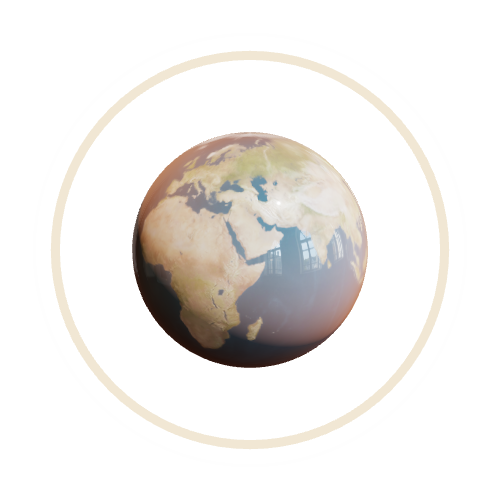
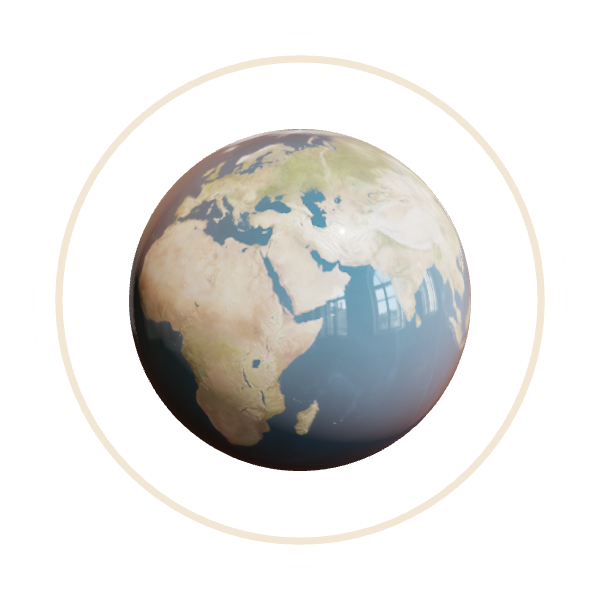
timeout based preloader and add fallback globe image

Changed region(s): [[0.21, 0.21, 0.81, 0.81], [0.09, 0.09, 0.93, 0.93]]

diff --git a/src/routes/index.svelte b/src/routes/index.svelte
@@ -1,31 +1,21 @@
 <script lang="ts">
 	import { onMount } from 'svelte';
 	import { loadStarsPreset } from 'tsparticles-preset-stars';
-	// import type { ParticlesProps } from 'svelte-particles';
 	import type { Engine } from 'tsparticles-engine';
 	import type { SvelteComponent } from 'svelte/internal';
 
 	import Globe from '$lib/components/Globe.svelte';
 	import Stat from '$lib/components/Stat.svelte';
-	import { waitFor } from '$lib/stores/preloader';
 
 	let ParticlesComponent: SvelteComponent;
 
 	onMount(async () => {
-		const module = await waitFor(import('svelte-particles'));
+		const module = await import('svelte-particles');
 		ParticlesComponent = module.default as any;
 	});
 
-	// const particlesConfig: ParticlesProps['options'] = {
-	// 	preset: 'stars',
-	// 	background: { color: 'transparent' },
-	// 	style: {
-	// 		position: 'static',
-	// 	},
-	// };
-
 	const particlesInit = async (main: Engine) => {
-		await waitFor(loadStarsPreset(main));
+		await loadStarsPreset(main);
 	};
 
 	const particlesOptions = {
@@ -119,12 +109,12 @@
 
 <!-- TODO: Tailwind needs rework -->
 <section class="bg-white flex flex-wrap justify-center" style="height: 500px">
-		<div class='max-w-6xl flex flex-wrap justify-between'>
-			<img class='h-20' src='assets/partners/wondry.png' alt='wondry'/>
-			<img class='h-20' src='assets/partners/c4e.jpg' alt='c4e'/>
-			<img class='h-20' src='assets/partners/sasb.png' alt='sasb'/>
-			<img class='h-20' src='assets/partners/unpri.png' alt='unpri'/>
-		</div>
+	<div class="max-w-6xl flex flex-wrap justify-between">
+		<img class="h-20" src="assets/partners/wondry.png" alt="wondry" />
+		<img class="h-20" src="assets/partners/c4e.jpg" alt="c4e" />
+		<img class="h-20" src="assets/partners/sasb.png" alt="sasb" />
+		<img class="h-20" src="assets/partners/unpri.png" alt="unpri" />
+	</div>
 </section>
 
 <section class="text-black" style="height: 500px; background-color: salmon">

diff --git a/src/lib/components/Globe.svelte b/src/lib/components/Globe.svelte
@@ -30,7 +30,6 @@
 	import { RGBELoader, OrbitControls, GLTFLoader } from 'three-stdlib';
 	import anime from 'animejs';
 
-	import { waitFor } from '$lib/stores/preloader';
 	import { onClickOnly } from '$lib/actions/onClickOnly';
 
 	const planeSize = 0.002;
@@ -41,6 +40,7 @@
 
 	let mousePos = new Vector2(0, 0);
 	let canvas: HTMLCanvasElement;
+	let globeReady = false;
 
 	let toggleDayTime = (e: MouseEvent) => {};
 
@@ -297,10 +297,22 @@
 				renderer.autoClear = false;
 				renderer.render(ringsScene, ringsCamera);
 				renderer.autoClear = true;
+
+				// Note: This snippet is used to generate the fallback image. Uncomment to use.
+
+				// if (typeof window !== 'undefined' && !window.ssCaptured) {
+				// 	let a = document.createElement('a');
+				// 	a.href = renderer.domElement.toDataURL('image/png');
+				// 	a.download = 'globe.png';
+				// 	a.click();
+				// 	window.ssCaptured = true;
+				// }
 			});
 		}
 
-		waitFor(init());
+		init().then(() => {
+			globeReady = true;
+		});
 	});
 
 	function nr() {
@@ -380,5 +392,13 @@
 	style="width: {width}px; height: {height}px;"
 	class="overflow-hidden max-w-full flex items-center justify-center"
 >
-	<canvas bind:this={canvas} class="max-w-full z-10" use:onClickOnly={toggleDayTime} />
+	{#if !globeReady}
+		<img src="/assets/globe.png" alt="Globe" />
+	{/if}
+	<canvas
+		bind:this={canvas}
+		class:hidden={!globeReady}
+		class="max-w-full"
+		use:onClickOnly={toggleDayTime}
+	/>
 </div>

diff --git a/src/lib/components/Preloader.svelte b/src/lib/components/Preloader.svelte
@@ -1,9 +1,18 @@
 <script>
+	import { onMount } from 'svelte';
 	import { fade } from 'svelte/transition';
-	import { loading } from '$lib/stores/preloader';
+
+	const TIMEOUT_MS = 2000;
+	let loading = true;
+
+	onMount(() => {
+		setTimeout(() => {
+			loading = false;
+		}, TIMEOUT_MS);
+	});
 </script>
 
-{#if $loading}
+{#if loading}
 	<div
 		class="grid place-items-center fixed w-screen h-screen bg-base-100 z-50"
 		out:fade={{ duration: 1000 }}

diff --git a/README.md b/README.md
@@ -1,10 +1,10 @@
 Site looks FANTASTIC so far. Really love this.
 
-## 1.
+## 1. ✅
 
 Remove the right click drag on the globe.
 
-## 2.
+## 2. ✅
 
 I apologize for not being clear before. Let's keep the fallback image for the globe & have the preloader. The preloader will be a set # of seconds rather than an await function. Right now the preloader gif is choppy, hopefully this will fix that issue.
 
